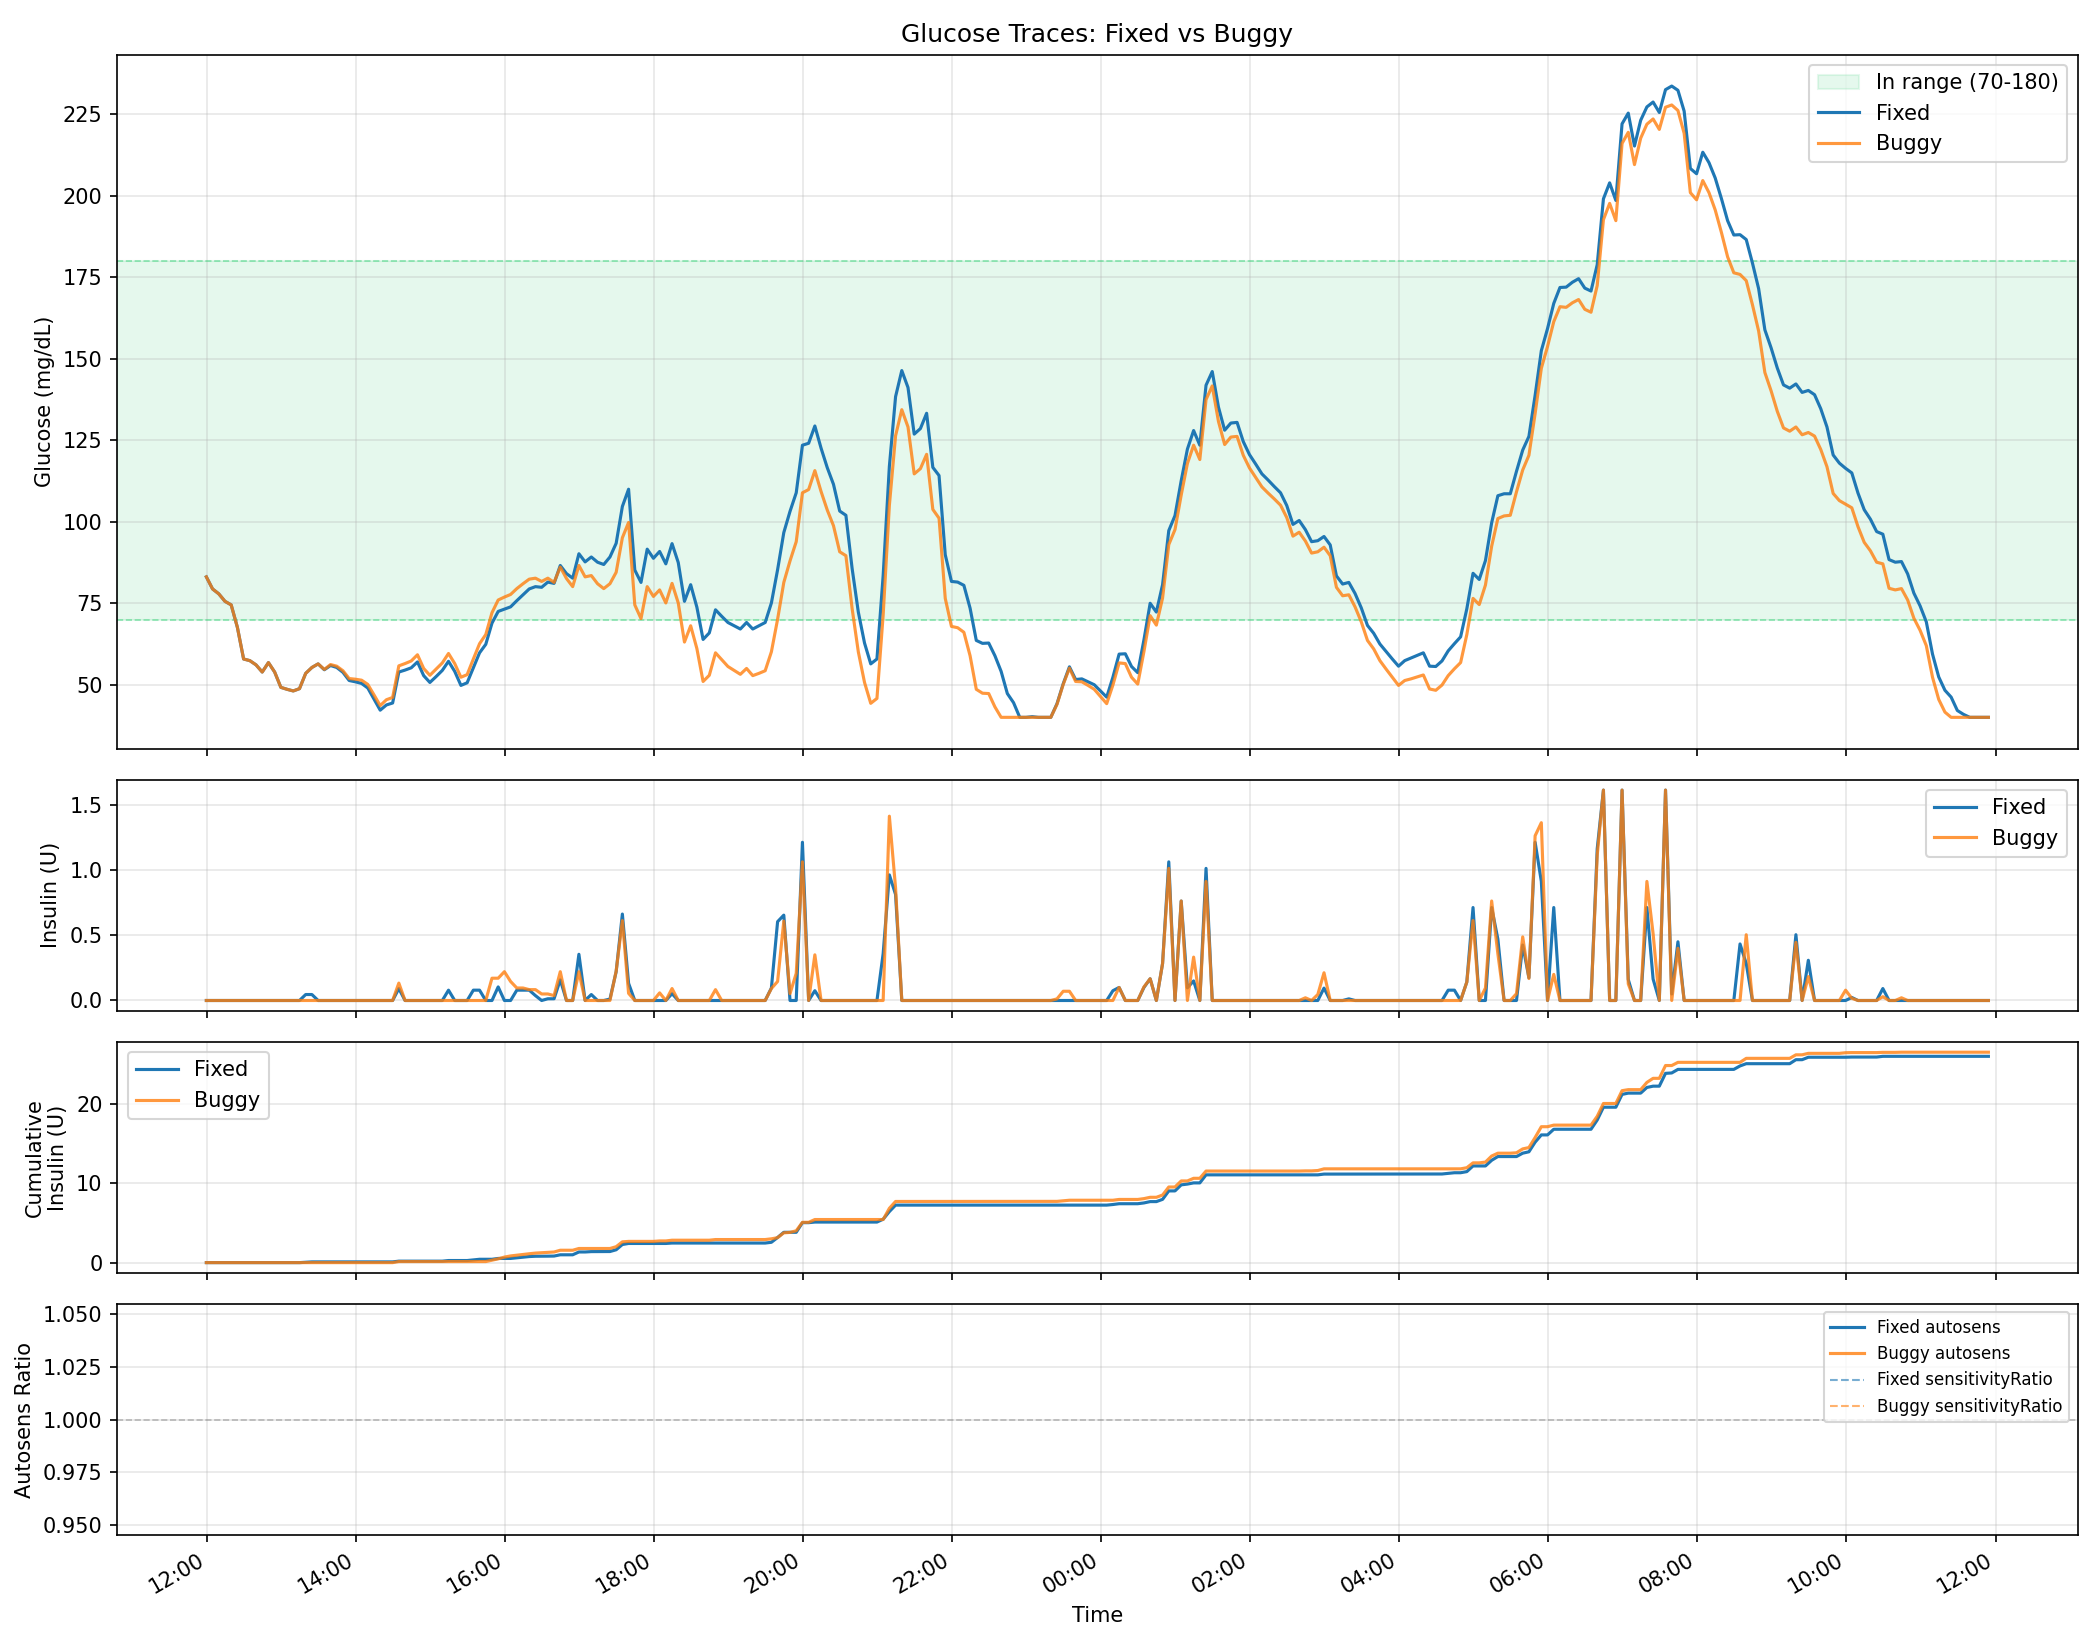
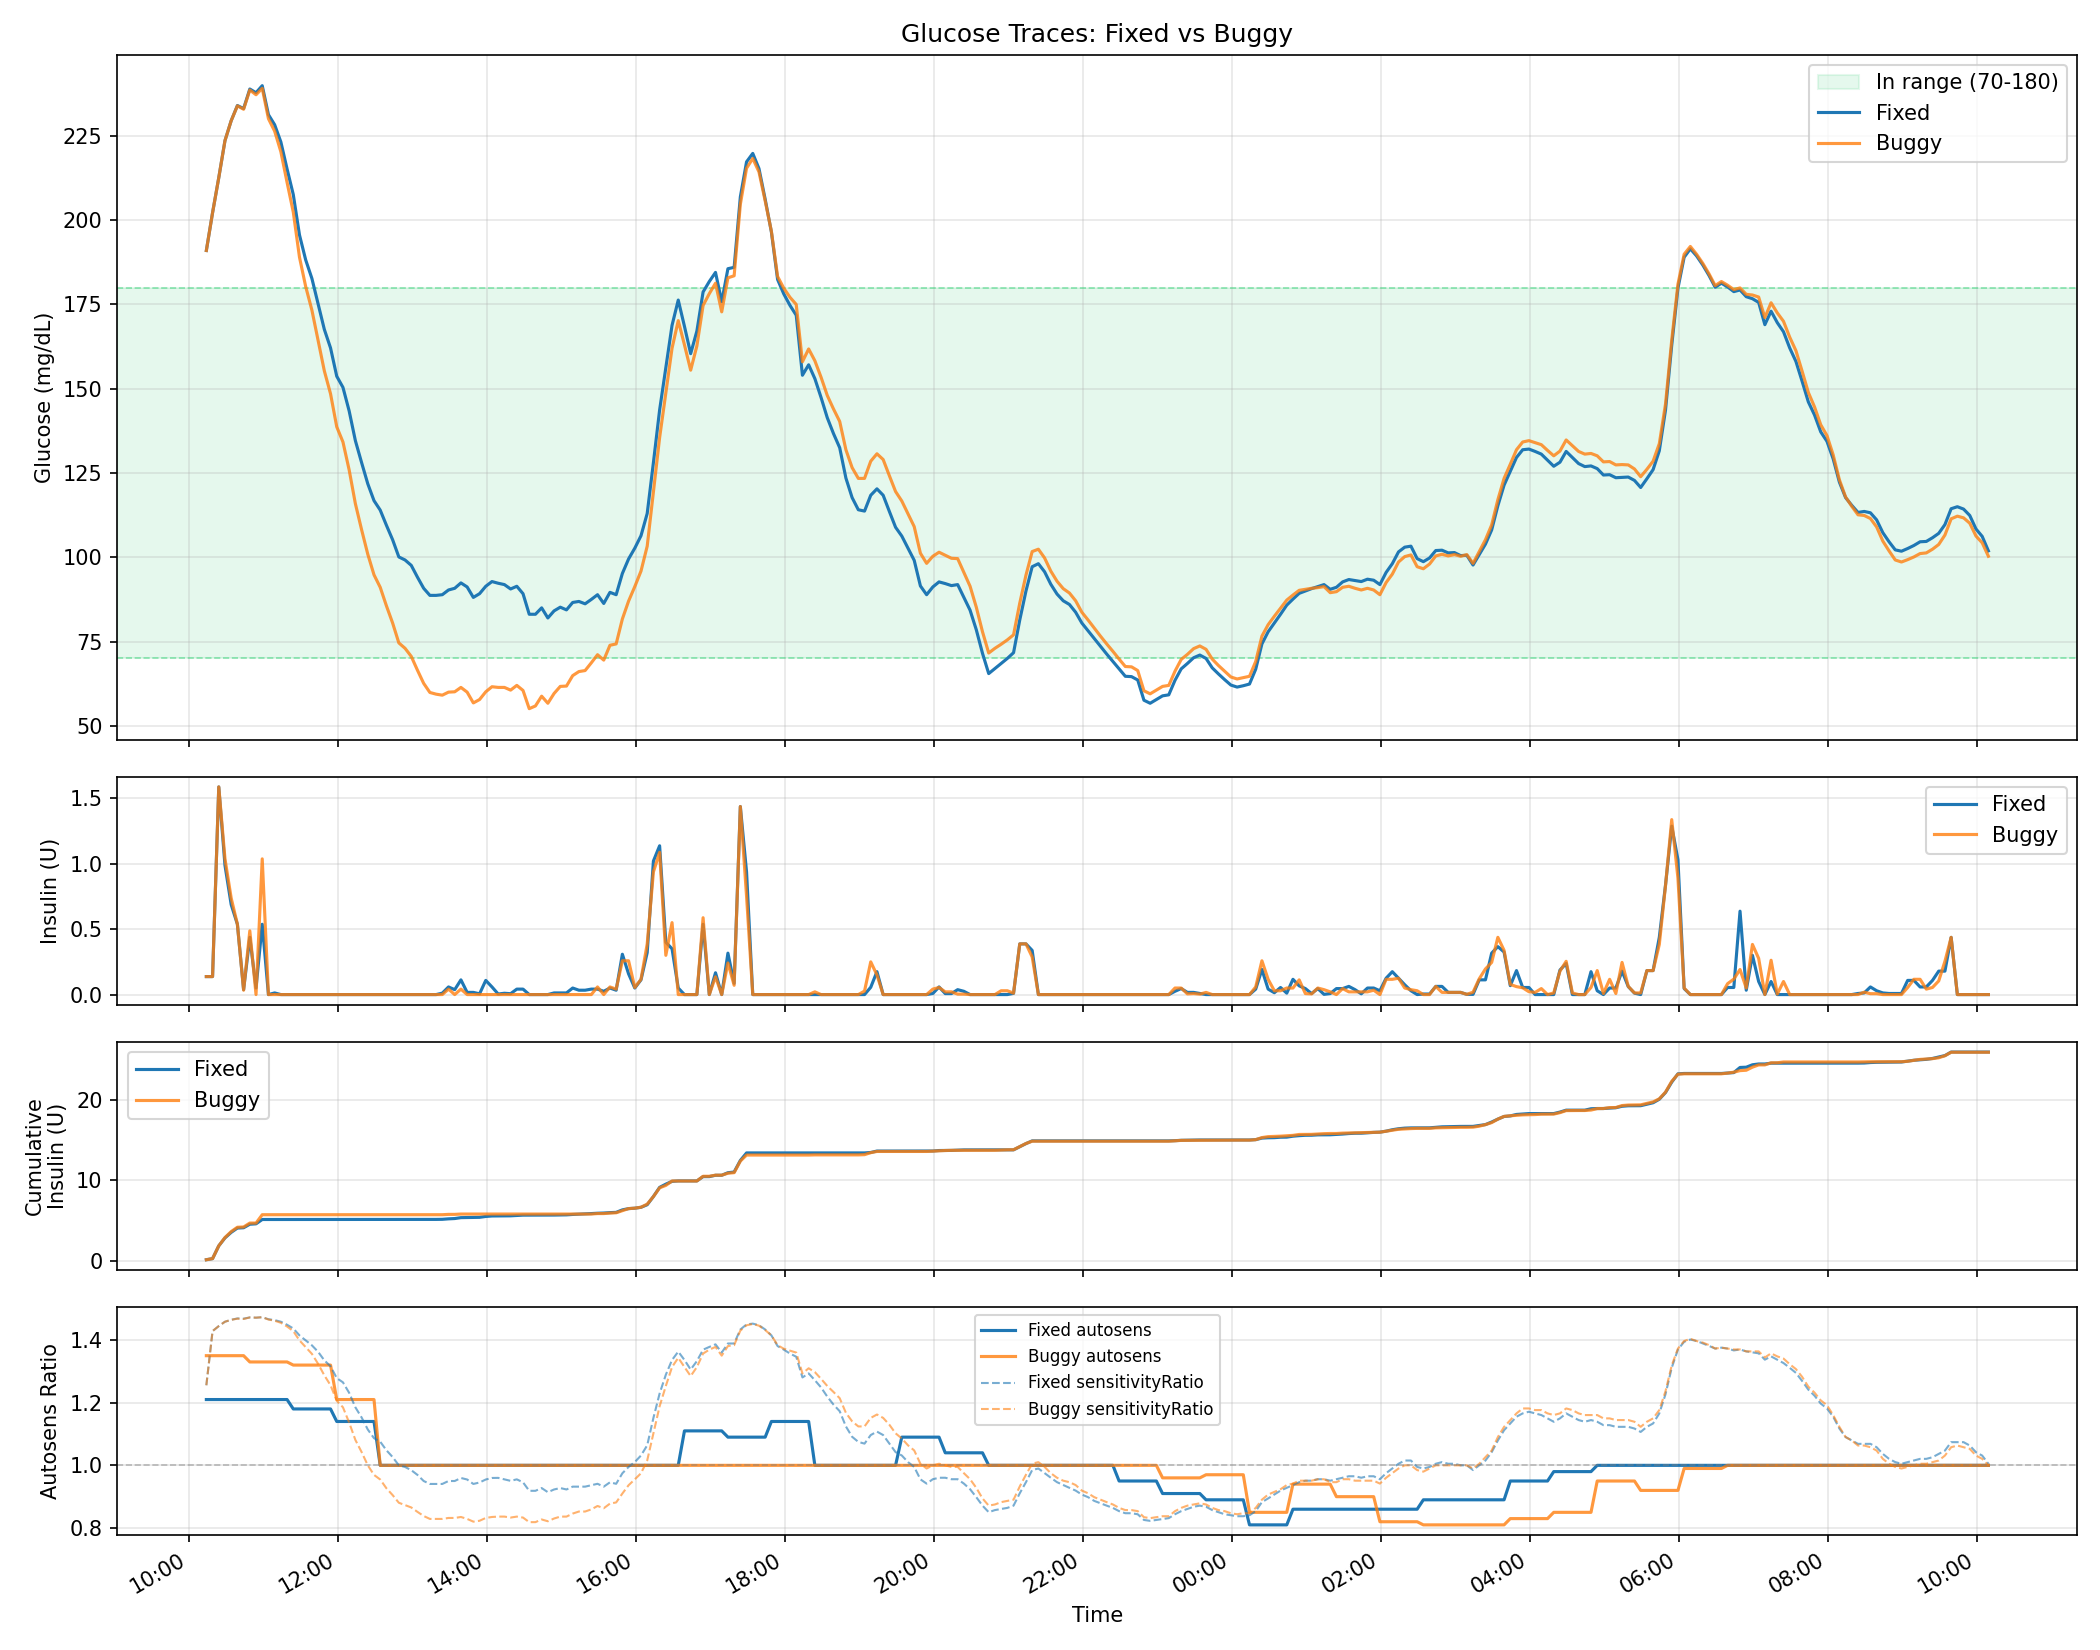
log the autosens, sensitivity ratio

diff --git a/SimpleSim/simplesim.py b/SimpleSim/simplesim.py
@@ -271,6 +271,24 @@ def lookup_isf(sensitivities, dt):
     return active["sensitivity"]
 
 
+def format_ratio(value):
+    """CSV cell for an optional ratio: blank when the algorithm did not report one."""
+    return "" if value is None else f"{float(value):.4f}"
+
+
+def load_autosens_ratio(state_dir):
+    """Read the autosens ratio the CLI persisted for this step.
+
+    oref-swift writes <state_dir>/autosens.json before it runs determineBasal,
+    so reading it after calculate() returns gives the ratio that step used.
+    """
+    try:
+        with open(f"{state_dir}/autosens.json") as f:
+            return json.load(f).get("ratio")
+    except (OSError, ValueError):
+        return None
+
+
 def calculate(state_dir, timestamp, glucose, run_js, use_timing=False, inspect_from=None, timezone=None, autosens_seconds=False):
     if run_js is None:
         cmd = [OREF_SWIFT_BINARY, "calculate", "-s", state_dir, "-i", "-", "-o", "-"]
@@ -439,7 +457,7 @@ def main():
     insulin_deliveries = []  # list of (datetime, units)
     pump_temp_basal = None
 
-    print("time,glucose,insulin,unfiltered glucose,total insulin action,insulin sensitivity factor,temp basal rate,duration")
+    print("time,glucose,insulin,unfiltered glucose,total insulin action,insulin sensitivity factor,temp basal rate,duration,autosens ratio,sensitivityRatio")
 
     filtered_glucose = None
     prev_t = None
@@ -561,7 +579,9 @@ def main():
             insulin_deliveries.append((t, five_min_insulin))
 
             duration = 0  if pump_temp_basal is None else pump_temp_basal['remaining_minutes']
-            print(f"{t.isoformat()},{glucose:.1f},{five_min_insulin:.4f},{prev_glucose},{insulin_action},{prev_isf},{active_rate},{duration}") 
+            autosens_ratio = format_ratio(load_autosens_ratio(state_dir))
+            sens_ratio = format_ratio(determination.get("sensitivityRatio"))
+            print(f"{t.isoformat()},{glucose:.1f},{five_min_insulin:.4f},{prev_glucose},{insulin_action},{prev_isf},{active_rate},{duration},{autosens_ratio},{sens_ratio}")
 
             if step < num_steps - 1:
                 if simulation_clock_start is not None:
@@ -616,7 +636,9 @@ def main():
             )
             insulin_deliveries.append((t, five_min_insulin))
 
-            print(f"{t.isoformat()},{glucose:.1f},{five_min_insulin:.4f}")
+            autosens_ratio = format_ratio(load_autosens_ratio(state_dir))
+            sens_ratio = format_ratio(determination.get("sensitivityRatio"))
+            print(f"{t.isoformat()},{glucose:.1f},{five_min_insulin:.4f},,,,,,{autosens_ratio},{sens_ratio}")
 
             t = t + timedelta(minutes=5)
 
